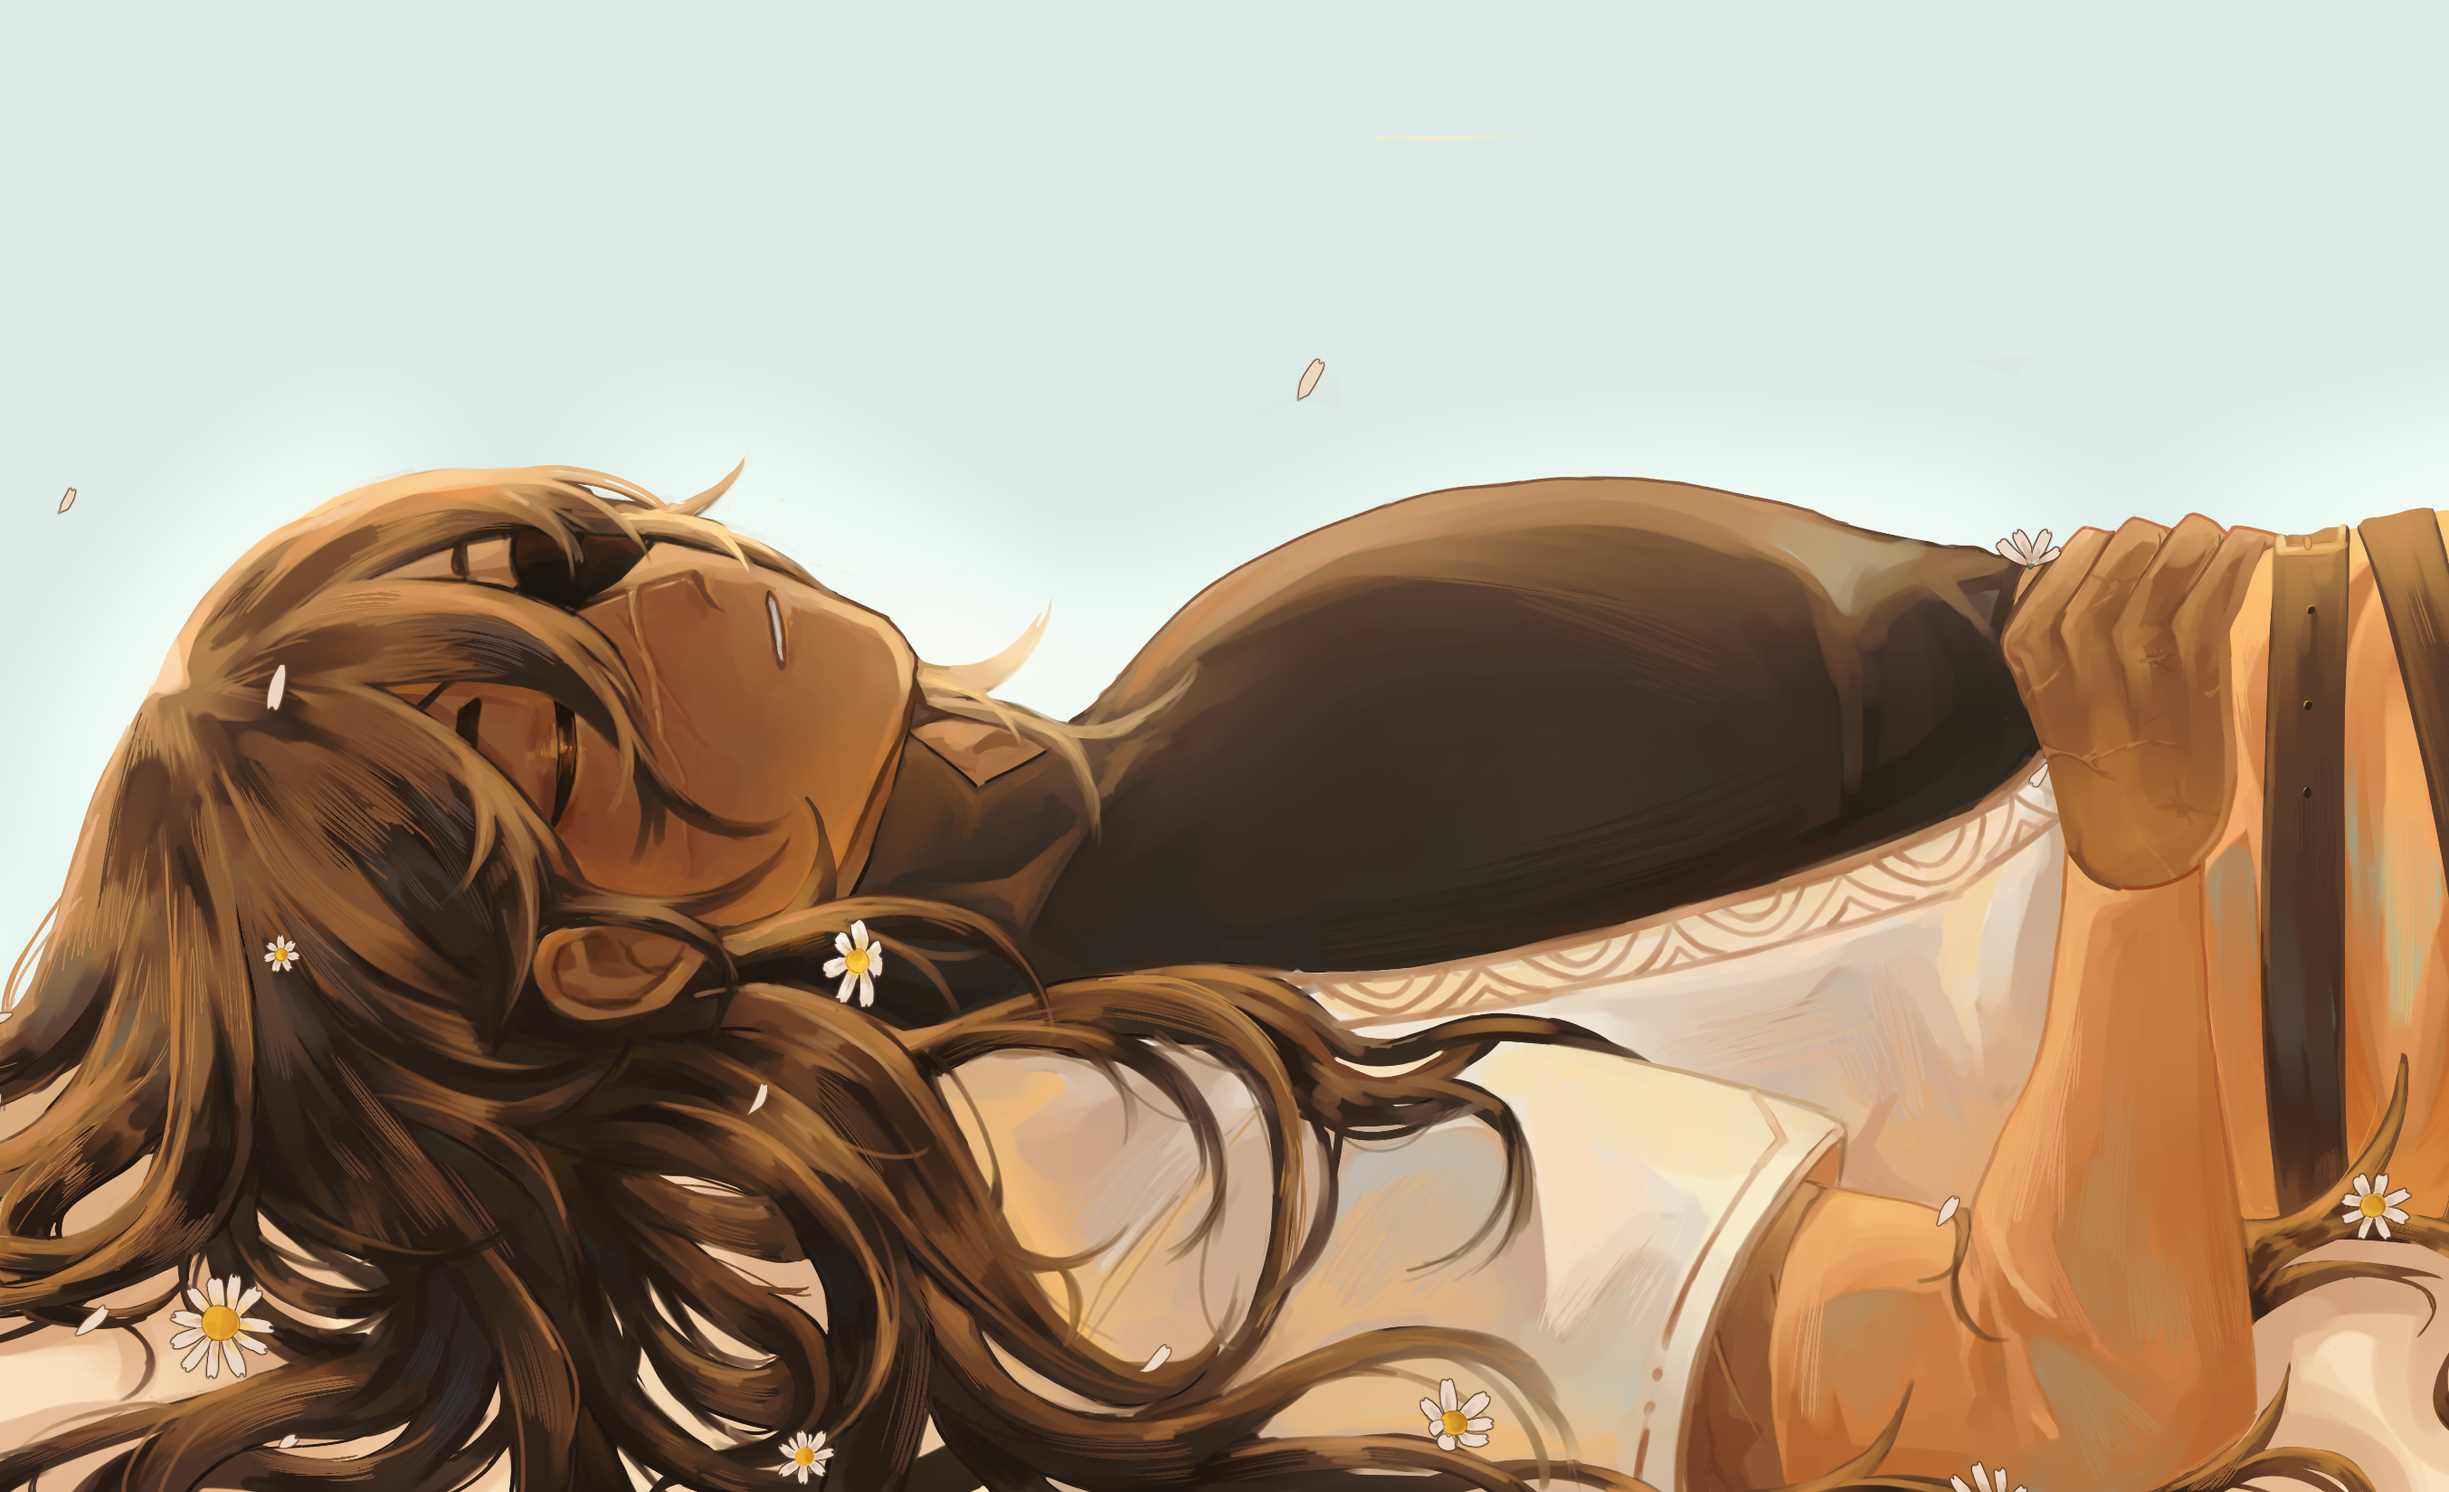
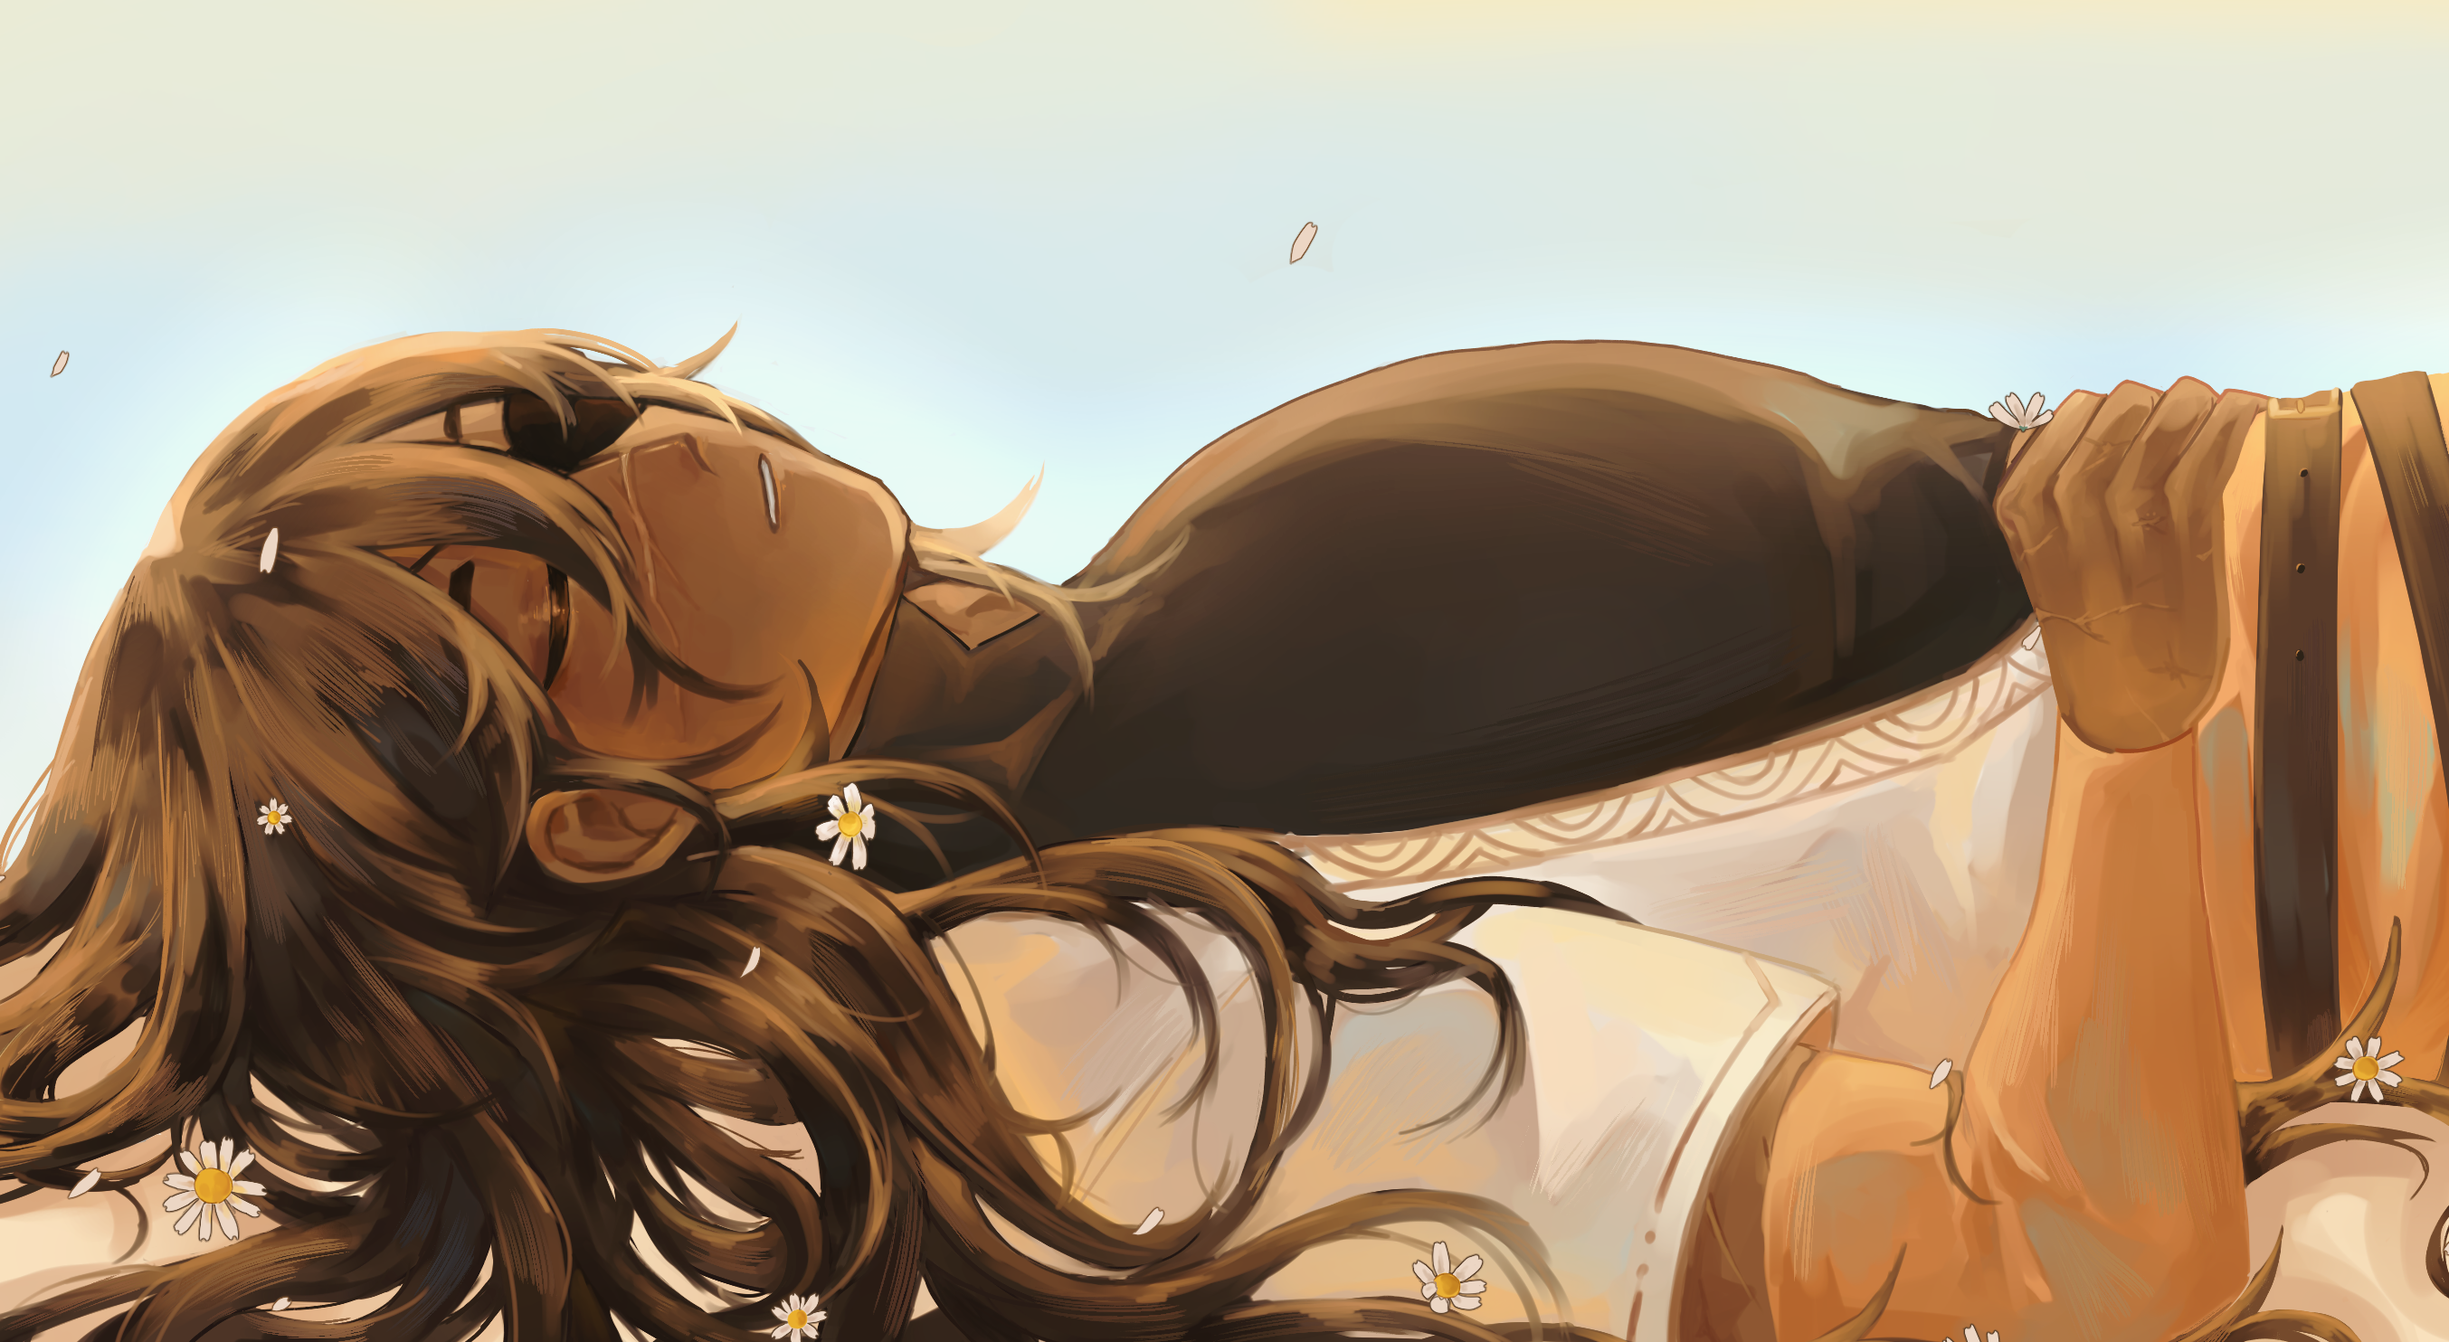
update header

diff --git a/css/landing.css b/css/landing.css
@@ -1,6 +1,6 @@
 #header {
     background-color: #B0DEFF;
-    background-size: 80%;
+    background-size: cover;
     background-position: center;
     width: 100vw;
     height: 40vh;
